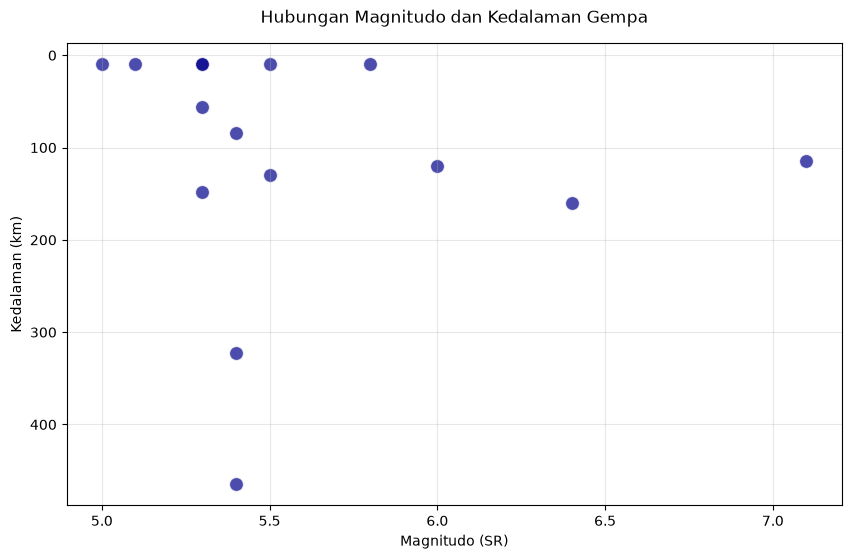
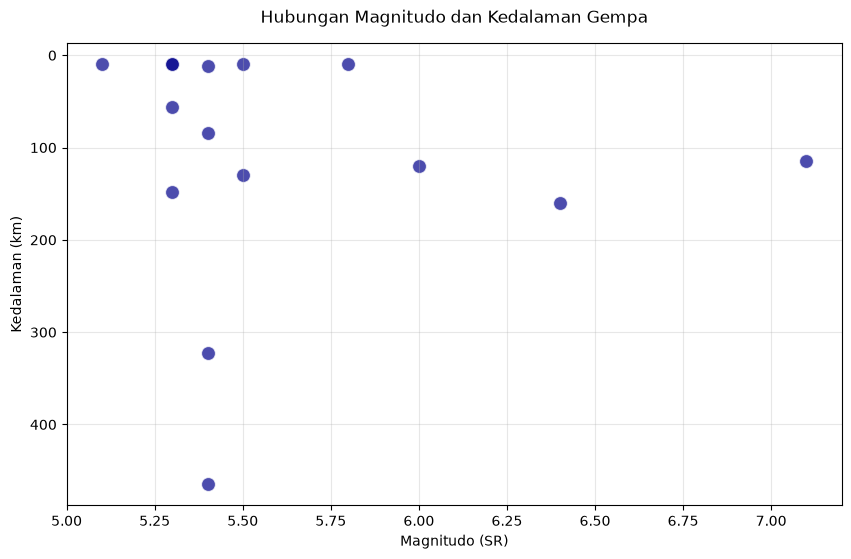
auto: update data gempa BMKG terkini

diff --git a/README.md b/README.md
@@ -4,8 +4,8 @@ Proyek portofolio data analytics sederhana menggunakan Open Data BMKG (Badan Met
 
 ## Insight Utama (Berdasarkan 15 gempa terakhir)
 - **Gempa Terbesar:** Terjadi dengan magnitudo **7.1 SR** di wilayah **130 km BaratDaya MALUKUTENGGARA** pada 17 Nov 2026 pukul 04:11:20 WIB.
-- **Rata-rata Kekuatan:** Sekitar **5.59 SR**. Mayoritas gempa terkini berada di rentang menengah yang terpantau oleh sistem peringatan dini.
-- **Rata-rata Kedalaman:** **110.73 km**. 
+- **Rata-rata Kekuatan:** Sekitar **5.61 SR**. Mayoritas gempa terkini berada di rentang menengah yang terpantau oleh sistem peringatan dini.
+- **Rata-rata Kedalaman:** **110.87 km**. 
 
 ## Visualisasi Data
 
